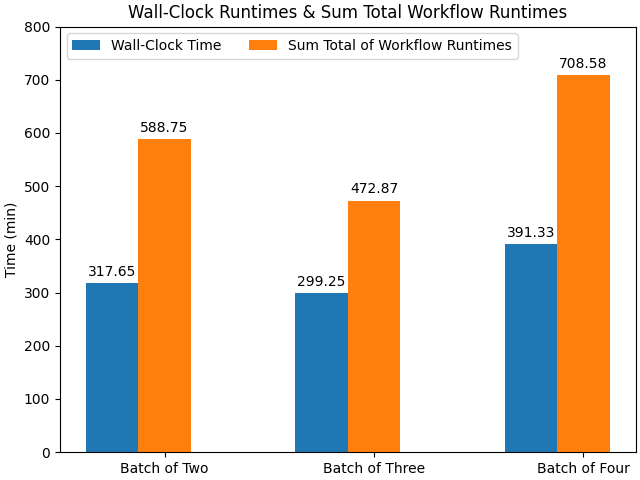
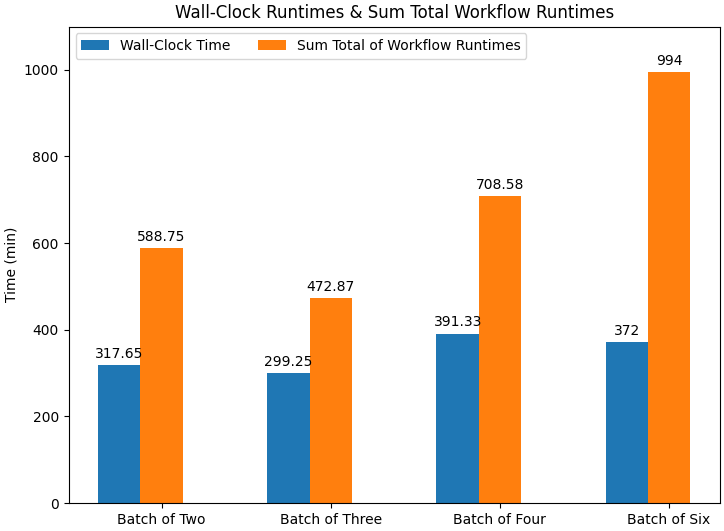
Updated DRAGEN workflow to disable CNV and SV calling

diff --git a/python/bar_graphs.py b/python/bar_graphs.py
@@ -10,10 +10,13 @@ batch_of_three_total_wall_clock_time = 299.25 # minutes
 batch_of_four_total_individual_runtimes = 708.58 # minutes
 batch_of_four_total_wall_clock_time = 391.33 # minutes
 
-batches = ("Batch of Two", "Batch of Three", "Batch of Four")
+batch_of_six_total_individual_runtimes = 994 # minutes
+batch_of_six_total_wall_clock_time = 372 # minutes
+
+batches = ("Batch of Two", "Batch of Three", "Batch of Four", "Batch of Six")
 batch_times = {
-    'Wall-Clock Time': (batch_of_two_total_wall_clock_time, batch_of_three_total_wall_clock_time, batch_of_four_total_wall_clock_time),
-    'Sum Total of Workflow Runtimes': (batch_of_two_total_individual_runtimes, batch_of_three_total_individual_runtimes, batch_of_four_total_individual_runtimes)
+    'Wall-Clock Time': (batch_of_two_total_wall_clock_time, batch_of_three_total_wall_clock_time, batch_of_four_total_wall_clock_time, batch_of_six_total_wall_clock_time),
+    'Sum Total of Workflow Runtimes': (batch_of_two_total_individual_runtimes, batch_of_three_total_individual_runtimes, batch_of_four_total_individual_runtimes, batch_of_six_total_individual_runtimes)
 }
 
 x = np.arange(len(batches))
